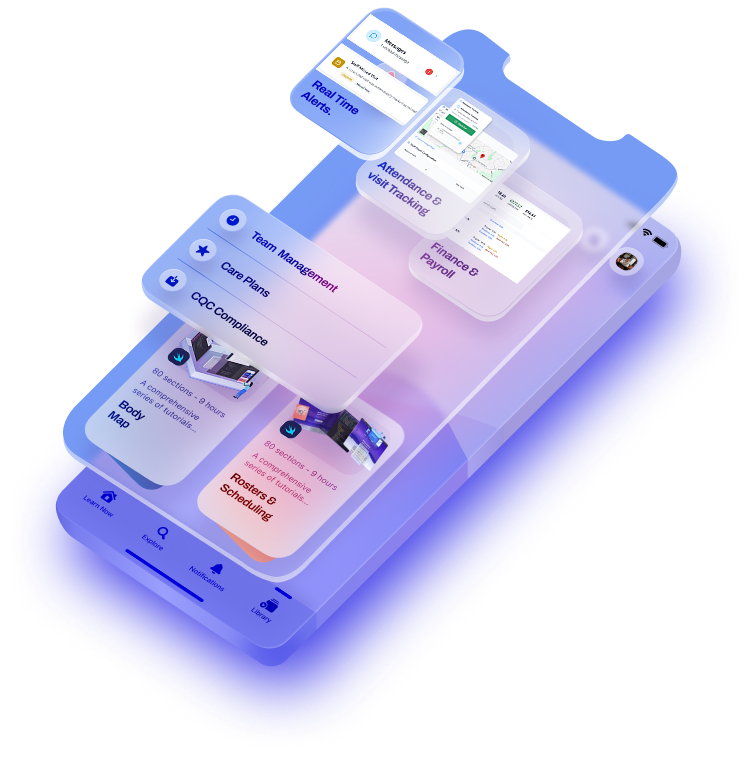
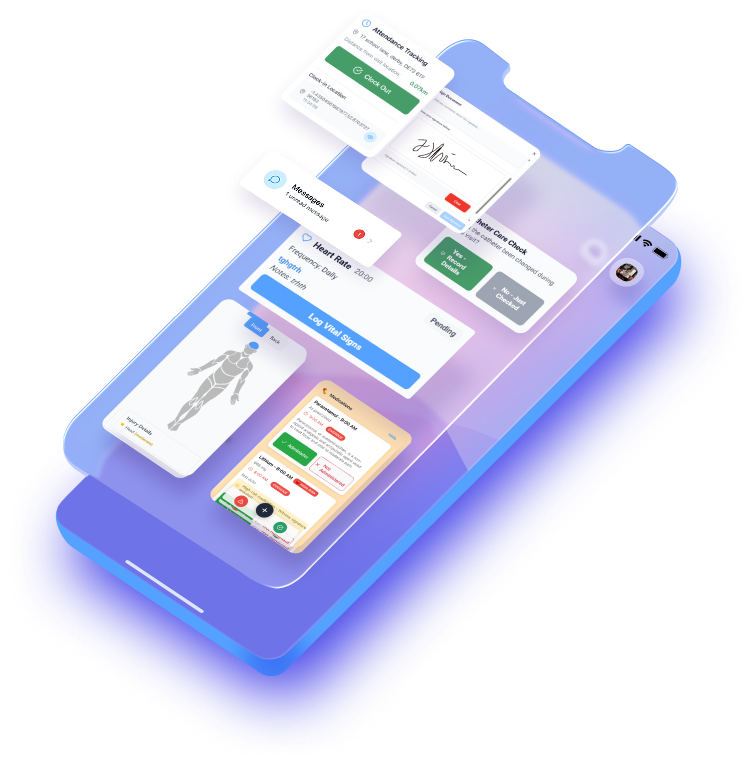
chore: env example, demo media, main entry, analytics, vite types

diff --git a/src/main.tsx b/src/main.tsx
@@ -3,6 +3,21 @@ import { createRoot } from 'react-dom/client';
 import App from './App.tsx';
 import './index.css';
 
+// Google tag (gtag.js) - only loads when VITE_GA4_MEASUREMENT_ID is set
+const gaId = import.meta.env.VITE_GA4_MEASUREMENT_ID;
+if (gaId && typeof gaId === 'string' && gaId.trim()) {
+  window.dataLayer = window.dataLayer || [];
+  window.gtag = function gtag() {
+    window.dataLayer!.push(arguments);
+  };
+  window.gtag('js', new Date());
+  const s = document.createElement('script');
+  s.async = true;
+  s.src = `https://www.googletagmanager.com/gtag/js?id=${gaId}`;
+  document.head.appendChild(s);
+  window.gtag('config', gaId);
+}
+
 createRoot(document.getElementById('root')!).render(
   <StrictMode>
     <App />

diff --git a/src/utils/analytics.ts b/src/utils/analytics.ts
@@ -43,15 +43,10 @@ class Analytics {
   }
 
   private sendEvent(event: AnalyticsEvent) {
-    // Placeholder for sending to analytics service
-    // Could integrate with PostHog, Plausible, or custom endpoint
     try {
-      // Example: Send to custom endpoint
-      // fetch('/api/analytics', {
-      //   method: 'POST',
-      //   headers: { 'Content-Type': 'application/json' },
-      //   body: JSON.stringify(event)
-      // });
+      if (typeof window !== 'undefined' && window.gtag) {
+        window.gtag('event', event.event, event.properties || {});
+      }
     } catch (error) {
       console.warn('Analytics error:', error);
     }

diff --git a/src/vite-env.d.ts b/src/vite-env.d.ts
@@ -1,1 +1,6 @@
 /// <reference types="vite/client" />
+
+interface Window {
+  dataLayer?: unknown[];
+  gtag?: (...args: unknown[]) => void;
+}